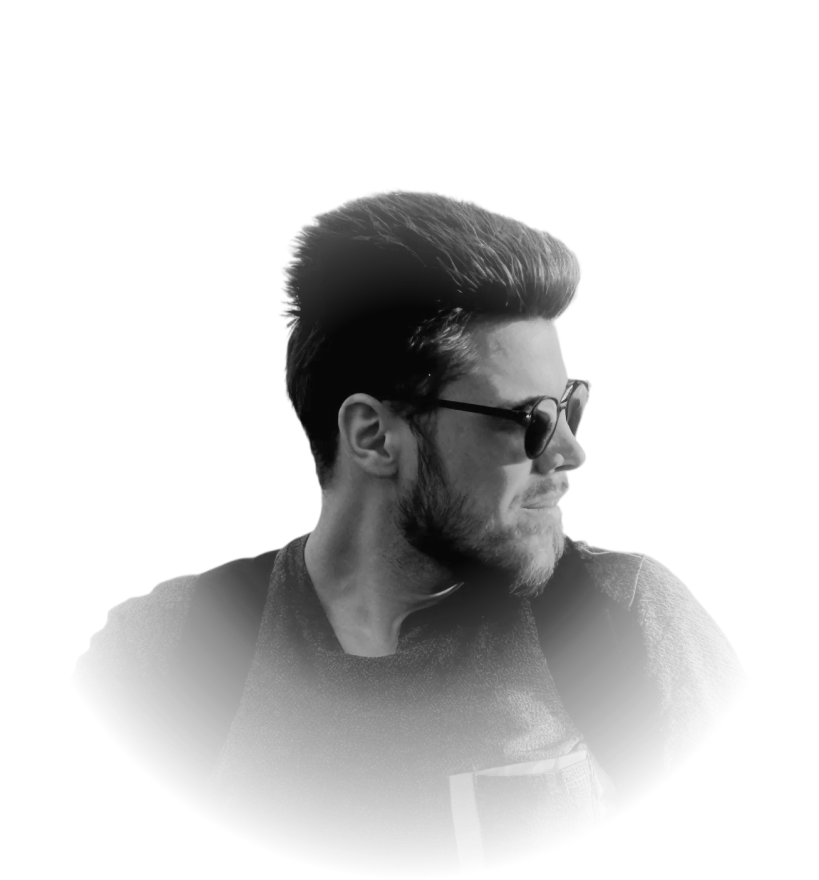
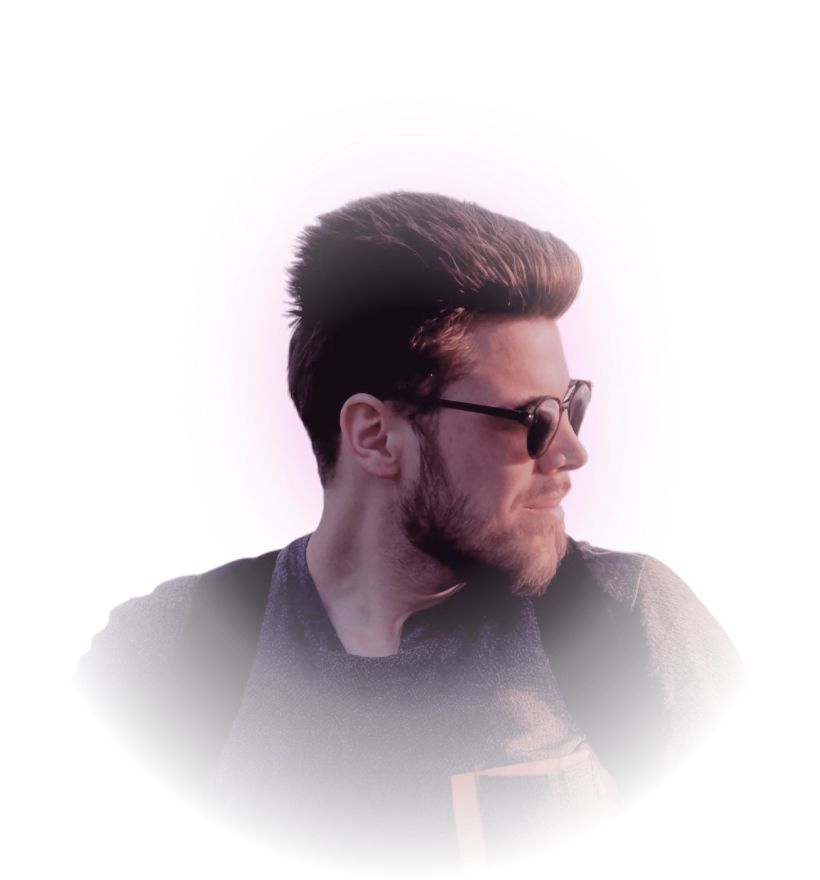
pushhhh

Changed region(s): [[0.3053, 0.2148, 0.7326, 0.767], [0.7631, 0.6443, 0.7937, 0.675], [0.5495, 0.767, 0.58, 0.7977]]

diff --git a/Style.css b/Style.css
@@ -14,6 +14,10 @@
     --nav-links-hover: #fff;
     --menu-border-color: rgba(255, 255, 255, 0.1);
 
+    --btn-bg: rgba(255, 255, 255, 0.05);
+    --btn-border: rgba(255, 255, 255, 0.12);
+    --glow-color: rgba(255, 255, 255, 0.3);
+
     /* Цвета для "Обо мне" по умолчанию */
     --bg-blob-1: #350920;
     --bg-blob-2: #1aff00;
@@ -170,6 +174,33 @@ li {
     margin-top: auto;
     margin-bottom: auto;
     width: 66%;
+    display:flex;
+    flex-direction: column;
+    gap: 1rem;
+}
+
+.logo-main {
+    /* Геометрия */
+    width: 33%;
+    height: auto;
+    aspect-ratio: 1 / 1;
+    
+    /* Внутренние отступы */
+    padding: 2rem;
+    
+    /* Поведение картинки внутри контейнера */
+    object-fit: cover;
+    
+    /* Добавим щепотку стиля из макета */
+    display: block; /* Убирает лишние зазоры снизу */
+    filter: drop-shadow(0 0 10px rgba(255, 255, 255, 0.1)); /* Легкое свечение */
+    transition: transform 0.3s ease, filter 0.3s ease;
+}
+
+/* Эффект при наведении, чтобы логотип "оживал" */
+.logo-main:hover {
+    transform: scale(1.02);
+    filter: drop-shadow(0 0 20px rgba(255, 255, 255, 0.2));
 }
 
 .about-me-wrapper {
@@ -182,9 +213,11 @@ li {
 
 .about-me-line {
     
-    width: 100%;
+    width: 120%;
     padding-bottom: 6rem;
-
+    overflow:hidden;
+    margin-left: -10rem;
+    margin-right: -10rem;
     transform: rotate(5deg);
 }
 
@@ -223,6 +256,7 @@ li {
 
 .about-me-image {
     width: 50%;
+    height: auto;
 }
 
 .experience {
@@ -355,12 +389,6 @@ li {
     border-radius: 100px;
     font-size: 0.9rem;
     transition: all 0.4s cubic-bezier(0.16, 1, 0.3, 1);
-}
-
-.tag:hover {
-    background: #fff;
-    color: #000;
-    transform: translateY(-3px);
 }
 
 /* ПРОГРЕСС ЛИНИИ */
@@ -1007,51 +1035,106 @@ li {
     display: inline-flex;
     align-items: center;
     justify-content: center;
-    padding: 1rem 2rem;
+    padding: 1rem 2.2rem;
+    width: fit-content;
     
-    /* Базовый дизайн (подправь под себя) */
-    background: rgba(255, 255, 255, 0.05);
-    border: 1px solid rgba(255, 255, 255, 0.1);
+    /* Стекло и форма */
+    background: var(--btn-bg);
+    border: 1px solid var(--btn-border);
     border-radius: 100px;
+    backdrop-filter: blur(12px);
+    -webkit-backdrop-filter: blur(12px);
     
-    color: #fff;
+    /* Текст и шрифт */
+    color: var(--font-color-primary);
     text-decoration: none;
     font-weight: 500;
+    font-family: inherit;
+    letter-spacing: 0.5px;
+    
     cursor: pointer;
     overflow: hidden;
-    transition: transform 0.2s cubic-bezier(0.23, 1, 0.32, 1);
+    z-index: 1;
+    
+    /* Плавность всех состояний */
+    transition: 
+        transform 0.3s cubic-bezier(0.23, 1, 0.32, 1),
+        border-color 0.4s ease,
+        box-shadow 0.4s ease,
+        color 0.4s ease;
 }
 
-/* Эффект "ртути" (инверсия) */
-.btn[data-magnetic="true"]::before {
+/* 1. Эффект "Ртутной волны" (Заливка) */
+.btn::before {
     content: '';
     position: absolute;
-    top: 50%;
+    top: 100%; /* Начинаем снизу */
     left: 50%;
-    width: 0;
-    height: 0;
+    width: 150%;
+    aspect-ratio: 1/1;
     background: #fff;
-    border-radius: 50%;
-    transform: translate(-50%, -50%);
-    transition: width 0.5s ease, height 0.5s ease;
+    border-radius: 42%; /* Округлая органика */
+    transform: translate(-50%, 0%) scale(0);
+    transition: transform 0.7s cubic-bezier(0.19, 1, 0.22, 1);
     mix-blend-mode: difference;
     z-index: 1;
-    filter: blur(30);
 }
 
+/* 2. Световой блик (Shine) */
+.btn::after {
+    content: '';
+    position: absolute;
+    top: 0;
+    left: -100%;
+    width: 50%;
+    height: 100%;
+    background: linear-gradient(
+        to right,
+        transparent,
+        rgba(255, 255, 255, 0.15),
+        transparent
+    );
+    transform: skewX(-25deg);
+    z-index: 2;
+}
+
+/* Состояния Hover */
 .btn:hover {
-    color:#000;
+    color: #000; /* Цвет текста станет черным из-за mix-blend или явно */
+    border-color: rgba(255, 255, 255, 0.5);
+    box-shadow: 0 10px 30px -5px var(--glow-color);
+    transform: translateY(-3px);
 }
 
-.btn[data-magnetic="true"]:hover::before {
-    width: 400px;
-    height: 400px;
+.btn:hover::before {
+    transform: translate(-50%, -75%) scale(1.5);
 }
 
-/* Контент внутри (текст, иконки) */
+.btn:hover::after {
+    left: 150%;
+    transition: 0.8s cubic-bezier(0.4, 0, 0.2, 1);
+}
+
+/* Контент внутри (Текст и SVG) */
 .btn > * {
     position: relative;
-    z-index: 2;
+    z-index: 3; /* Поверх всех эффектов */
+    pointer-events: none;
+}
+
+/* Анимация иконки */
+.btn svg {
+    transition: transform 0.4s cubic-bezier(0.175, 0.885, 0.32, 1.275);
+}
+
+.btn:hover svg {
+    transform: translateY(2px) scale(1.1);
+}
+
+/* Активное состояние (клик) */
+.btn:active {
+    transform: translateY(-1px) scale(0.97);
+    transition: 0.1s;
 }
 
 /* ============================================

diff --git a/Main.js b/Main.js
@@ -397,7 +397,8 @@ function updateBackground(pageId) {
 
 function initMagneticButtons() {
     // Ищем все кнопки с включенным магнетизмом
-    const buttons = document.querySelectorAll('.btn[data-magnetic="true"]');
+    const buttons = document.querySelectorAll('.btn');
+    const tags = document.querySelectorAll('.tag');
     
     buttons.forEach(btn => {
         btn.addEventListener('mousemove', (e) => {
@@ -407,6 +408,22 @@ function initMagneticButtons() {
             
             // Двигаем кнопку на 30% от отклонения курсора
             btn.style.transform = `translate(${x * 0.3}px, ${y * 0.3}px)`;
+        });
+
+        btn.addEventListener('mouseleave', () => {
+            // Возвращаем в центр
+            btn.style.transform = `translate(0px, 0px)`;
+        });
+    });
+
+    tags.forEach(btn => {
+        btn.addEventListener('mousemove', (e) => {
+            const rect = btn.getBoundingClientRect();
+            const x = e.clientX - rect.left - rect.width / 2;
+            const y = e.clientY - rect.top - rect.height / 2;
+            
+            // Двигаем кнопку на 30% от отклонения курсора
+            btn.style.transform = `translate(${x * 0.1}px, ${y * 0.1}px)`;
         });
 
         btn.addEventListener('mouseleave', () => {

diff --git a/pages/about-me.html b/pages/about-me.html
@@ -1,10 +1,12 @@
 <div class="First-section">
-    <img src="./images/Logo.svg" style="width: 33%; height: auto; aspect-ratio: 1 / 1; object-fit: cover;">
+    <img src="./images/Logo.svg" class="logo-main" alt="Logo">
     <div class="header">
         <h1>PRODUCT DESIGNER</h1>
         <h3 style="color: var(--font-color-secondary);">Fintech & B2B SaaS</h3>
-        <a href="./files/CV.pdf" download class="btn" data-magnetic="true">
-            <img src="./images/mail.svg" style="width: 18px; margin-right: 10px;" alt="">
+        <a href="https://drive.google.com/uc?export=download&id=1-7PdmVxefQcBsWh4BqowsINNbixuxFgK" class="btn" data-magnetic="true">
+            <svg width="1.5rem" height="1.5rem" viewBox="0 0 24 24" fill="currentColor" style="margin-right:1rem;" xmlns="http://www.w3.org/2000/svg">
+                <path d="M3 19V17C3 16.4477 3.44772 16 4 16C4.55228 16 5 16.4477 5 17V19C5 19.2652 5.10543 19.5195 5.29297 19.707C5.48051 19.8946 5.73478 20 6 20H18C18.2652 20 18.5195 19.8946 18.707 19.707C18.8946 19.5195 19 19.2652 19 19V17C19 16.4477 19.4477 16 20 16C20.5523 16 21 16.4477 21 17V19C21 19.7957 20.6837 20.5585 20.1211 21.1211C19.5585 21.6837 18.7957 22 18 22H6C5.20435 22 4.44152 21.6837 3.87891 21.1211C3.3163 20.5585 3 19.7956 3 19ZM11 4C11 3.44772 11.4477 3 12 3C12.5523 3 13 3.44772 13 4V13.5859L16.293 10.293C16.6835 9.90244 17.3165 9.90244 17.707 10.293C18.0976 10.6835 18.0976 11.3165 17.707 11.707L12.707 16.707C12.3165 17.0976 11.6835 17.0976 11.293 16.707L6.29297 11.707C5.90244 11.3165 5.90244 10.6835 6.29297 10.293C6.68349 9.90244 7.31651 9.90244 7.70703 10.293L11 13.5859V4Z" fill="currentColor"/>
+            </svg>
             <span>Download CV</span>
         </a>
     </div>
@@ -38,7 +40,7 @@
                 <h2>ОБО МНЕ</h2>
                 <a>Продуктовый дизайнер с фундаментальным техническим образованием в области прикладной информатики<br> &bull; 4+ лет опыта проектирования сложных цифровых экосистем<br> &bull; Специализируюсь на создании высоконагруженных Fintech-платформ и интерфейсов для AI-решений<br> &bull; Эксперт в разработке White Label систем и архитектуры дизайн-токенов<br> &bull; Благодаря владению HTML, CSS и JS, обеспечиваю Pixel Perfect реализацию и эффективную коммуникацию с разработкой.</a>
             </div>
-            <div class="about-me-image"><img src="./images/me.png" style="height: 23rem; aspect-ratio: 1 / 1; object-fit: cover;"></div>
+            <div class="about-me-image"><img src="./images/me.png" style="height: 36rem; aspect-ratio: 1 / 1; object-fit: cover; position: absolute;"></div>
         </div>
     </div>
 </div>